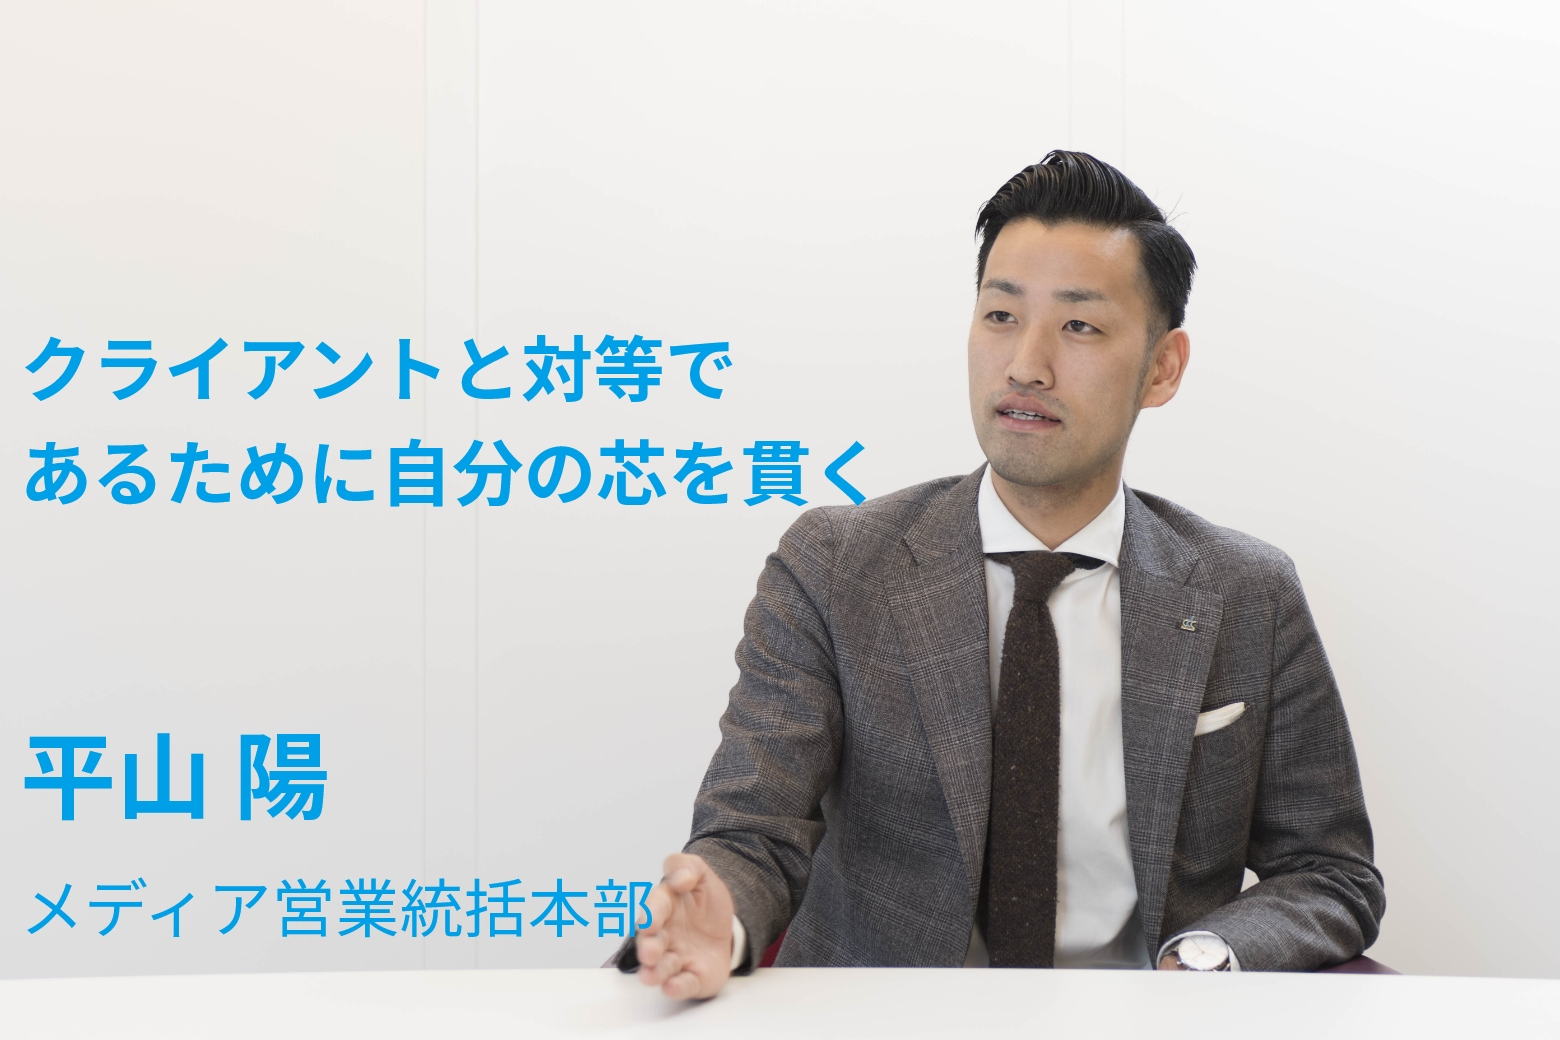
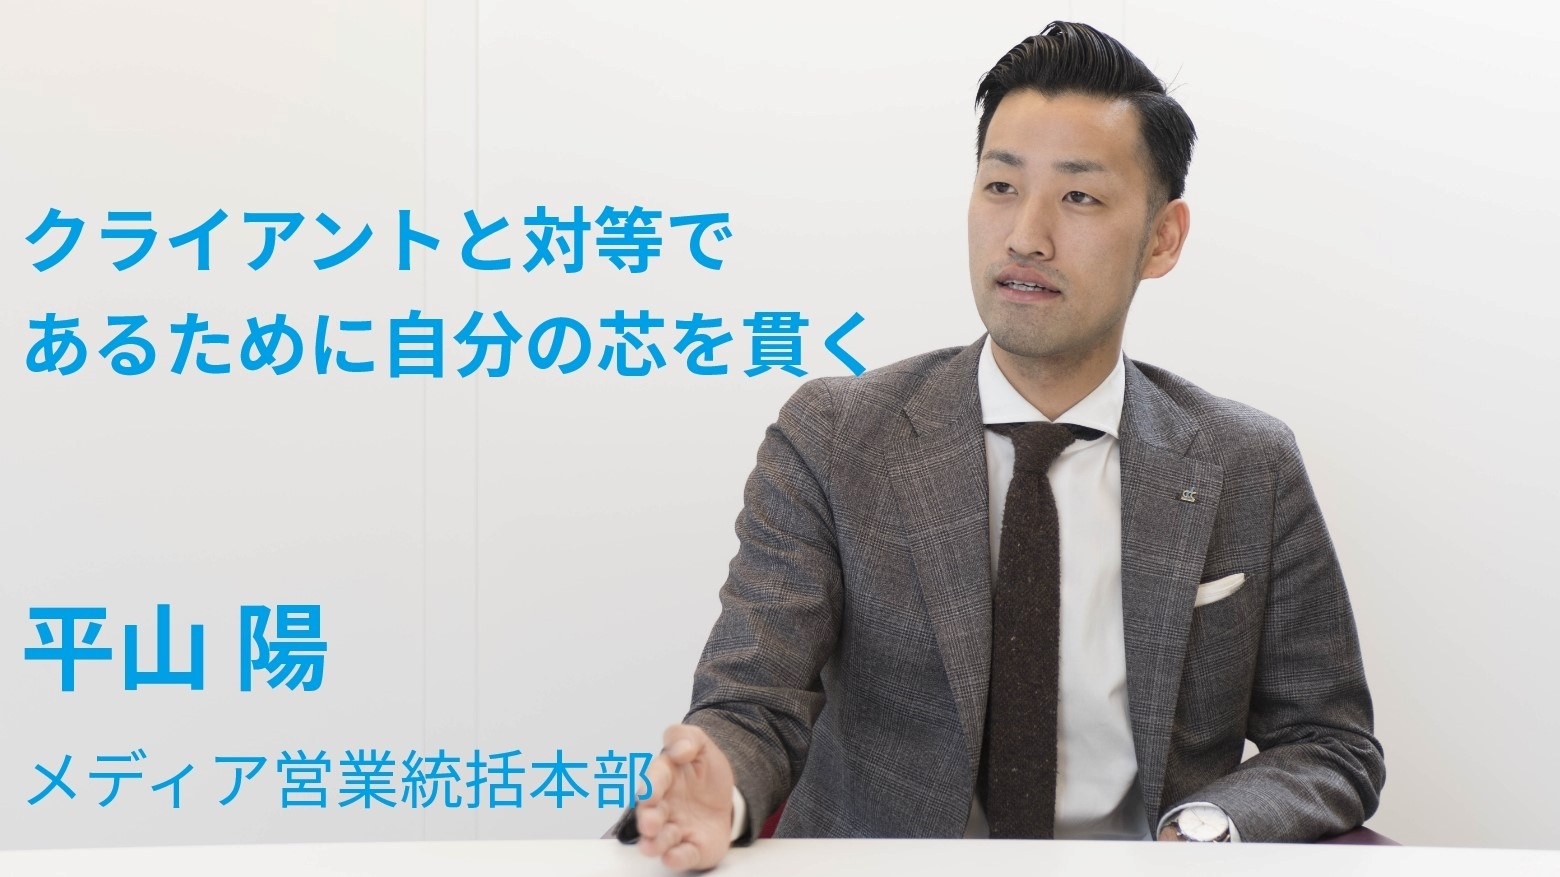
画像サイズ調整

diff --git a/components/slider.js b/components/slider.js
@@ -7,6 +7,7 @@ export default function Slider(){
   return (
     <>
       <Splide
+        className="lg:mx-[5%]"
         options={{
           autoplay: true, // 自動再生を有効
           interval: 3000,
@@ -15,7 +16,7 @@ export default function Slider(){
       >
         <SplideSlide>
         <Link href="/interview/1">
-          <Image className="slide-img block  object-cover w-[100%] " src="/image/interview_mv_f.jpg" alt="藤井 歩" width="1560" height="1040"/>
+          <Image className="slide-img block  object-cover w-[100%]  " src="/image/interview_mv_f.jpg" alt="藤井 歩" width="1559" height="877"/>
         </Link>
         </SplideSlide>
         <SplideSlide>
@@ -30,7 +31,7 @@ export default function Slider(){
         </SplideSlide>
         <SplideSlide>
         <Link href="/interview/4">
-        <Image className="slide-img block object-cover w-[100%] " src="/image/interview_mv_o.jpg" alt="小田 真大" width="1560" height="1040"/>
+        <Image className="slide-img block object-cover w-[100%]  " src="/image/interview_mv_o.jpg" alt="小田 真大" width="1560" height="1040"/>
         </Link>
         </SplideSlide>
         <SplideSlide>
@@ -40,7 +41,7 @@ export default function Slider(){
         </SplideSlide>
         <SplideSlide>
         <Link href="/interview/6">
-        <Image className="slide-img block object-cover w-[100%] " src="/image/interview_mv_h.jpg" alt="平山 陽" width="1560" height="1040"/>
+        <Image className="slide-img block object-cover w-[100%]  " src="/image/interview_mv_h.jpg" alt="平山 陽" width="1560" height="1040"/>
         </Link>
         </SplideSlide>
       </Splide>

diff --git a/pages/interview/1.js b/pages/interview/1.js
@@ -17,12 +17,12 @@ export default function Interview(props) {
       <Header />
       <Image
         src={interview[2].main}
-        width={1560}
-        height={1040}
+        width={1559}
+        height={877}
         alt={interview[2].alt}
-        className="w-[100%]"
+        className="w-[100%] lg:w-[90%] lg:mx-[5%]"
       />
-      <div className="px-12 space-y-10 my-[60px] ">
+      <div className="px-12 space-y-10 my-[60px] lg:mx-[5%] ">
         <p>{interview[1].p_1}</p>
       </div>
       <Image
@@ -30,8 +30,9 @@ export default function Interview(props) {
         width={5568}
         height={3712}
         alt={interview[2].alt}
+        className=" lg:w-[90%] lg:mx-[5%]"
       />
-      <div className="lg:flex lg:my-[120px]">
+      <div className="lg:flex lg:my-[120px] lg:mx-[5%]">
         <div className="lg:w-1/2">
           <div className="mx-[25px] mb-[39px]">
         <h2 className="mb-[30px] text-[20px] md:text-[30px]">
@@ -66,8 +67,9 @@ export default function Interview(props) {
         width={5568}
         height={3712}
         alt={interview[2].alt}
+        className="w-[100%] lg:w-[90%] lg:mx-[5%]"
       />
-      <div className="lg:flex lg:my-[120px]">
+      <div className="lg:flex lg:my-[120px] lg:mx-[5%]">
       <div className="lg:w-1/2">
         <div className="mx-[25px]  mb-[39px]">
         <h2 className="mb-[30px] text-[20px] md:text-[30px]">
@@ -100,6 +102,7 @@ export default function Interview(props) {
         {interview[2].footer_h1}
       </h1>
       <Splide
+      className="lg:mx-[20%]"
         options={{
           rewind: true,
         }}

diff --git a/pages/employee.js b/pages/employee.js
@@ -14,9 +14,6 @@ export default function Employee(props) {
       <title>社員紹介|CDC新卒採用</title>
       <Header />
       <div>
-        <Slider />
-      </div>
-      <div>
         <h1 className=" text-center text-[30px] md:text-[32px] font-bold my-[60px]  lg:mt-[120px] lg:text-[40px]">
           {enp[0].h1}
         </h1>

diff --git a/pages/interview/5.js b/pages/interview/5.js
@@ -20,8 +20,8 @@ export default function Interview(props) {
       <Image
         className="w-[100%]"
         src={interview[5].main}
-        width={1560}
-        height={1040}
+        width={1559}
+        height={877}
         alt={interview[5].alt}
       />
       <div className="px-12 space-y-10 my-[60px] ">

diff --git a/pages/interview/6.js b/pages/interview/6.js
@@ -18,8 +18,8 @@ export default function Interview(props) {
       <Image
         className="w-[100%]"
         src={interview[0].main}
-        width={1560}
-        height={1040}
+        width={1559}
+        height={877}
         alt={interview[0].alt}
       />
       <div className="px-12 space-y-10 my-[60px] ">

diff --git a/pages/interview/2.js b/pages/interview/2.js
@@ -17,8 +17,8 @@ export default function Interview(props) {
       <Header />
       <Image
         src={interview[3].main}
-        width={1560}
-        height={1040}
+        width={1559}
+        height={877}
         alt={interview[3].alt}
         className="w-[100%]"
       />

diff --git a/pages/interview/3.js b/pages/interview/3.js
@@ -17,8 +17,8 @@ export default function Interview(props) {
       <Header />
       <Image
         src={interview[1].mein}
-        width={1560}
-        height={1040}
+        width={1559}
+        height={877}
         alt={interview[1].alt}
         className="w-[100%]"
       />

diff --git a/pages/interview/4.js b/pages/interview/4.js
@@ -17,8 +17,8 @@ export default function Interview(props) {
       <Header />
       <Image
         src={interview[4].main}
-        width={1560}
-        height={1040}
+        width={1559}
+        height={877}
         alt={interview[4].alt}
         className="w-[100%]"
       />

diff --git a/pages/job/3.js b/pages/job/3.js
@@ -18,7 +18,7 @@ export default function Interview(props) {
       <Header />
       <div>
         <Image
-          className="w-[100%]"
+          className="w-[100%]  lg:w-[90%] lg:mx-[5%]"
           src={job[2].mein}
           width={1560}
           height={808}

diff --git a/pages/job/1.js b/pages/job/1.js
@@ -17,7 +17,7 @@ export default function Interview(props) {
       <Header />
       <div>
         <Image
-          className="w-[100%]"
+          className="w-[100%] lg:w-[90%] lg:mx-[5%]"
           src={job[0].mein}
           width={1560}
           height={808}

diff --git a/pages/job/2.js b/pages/job/2.js
@@ -17,7 +17,7 @@ export default function Interview(props) {
       <Header />
       <div>
         <Image
-          className="w-[100%]"
+          className="w-[100%] lg:w-[90%] lg:mx-[5%]"
           src={job[1].mein}
           width={1560}
           height={808}

diff --git a/pages/job/4.js b/pages/job/4.js
@@ -17,7 +17,7 @@ export default function Interview(props) {
       <Header />
       <div>
         <Image
-          className="w-[100%]"
+          className="w-[100%] lg:w-[90%] lg:mx-[5%]"
           src={job[3].mein}
           width={1560}
           height={808}
